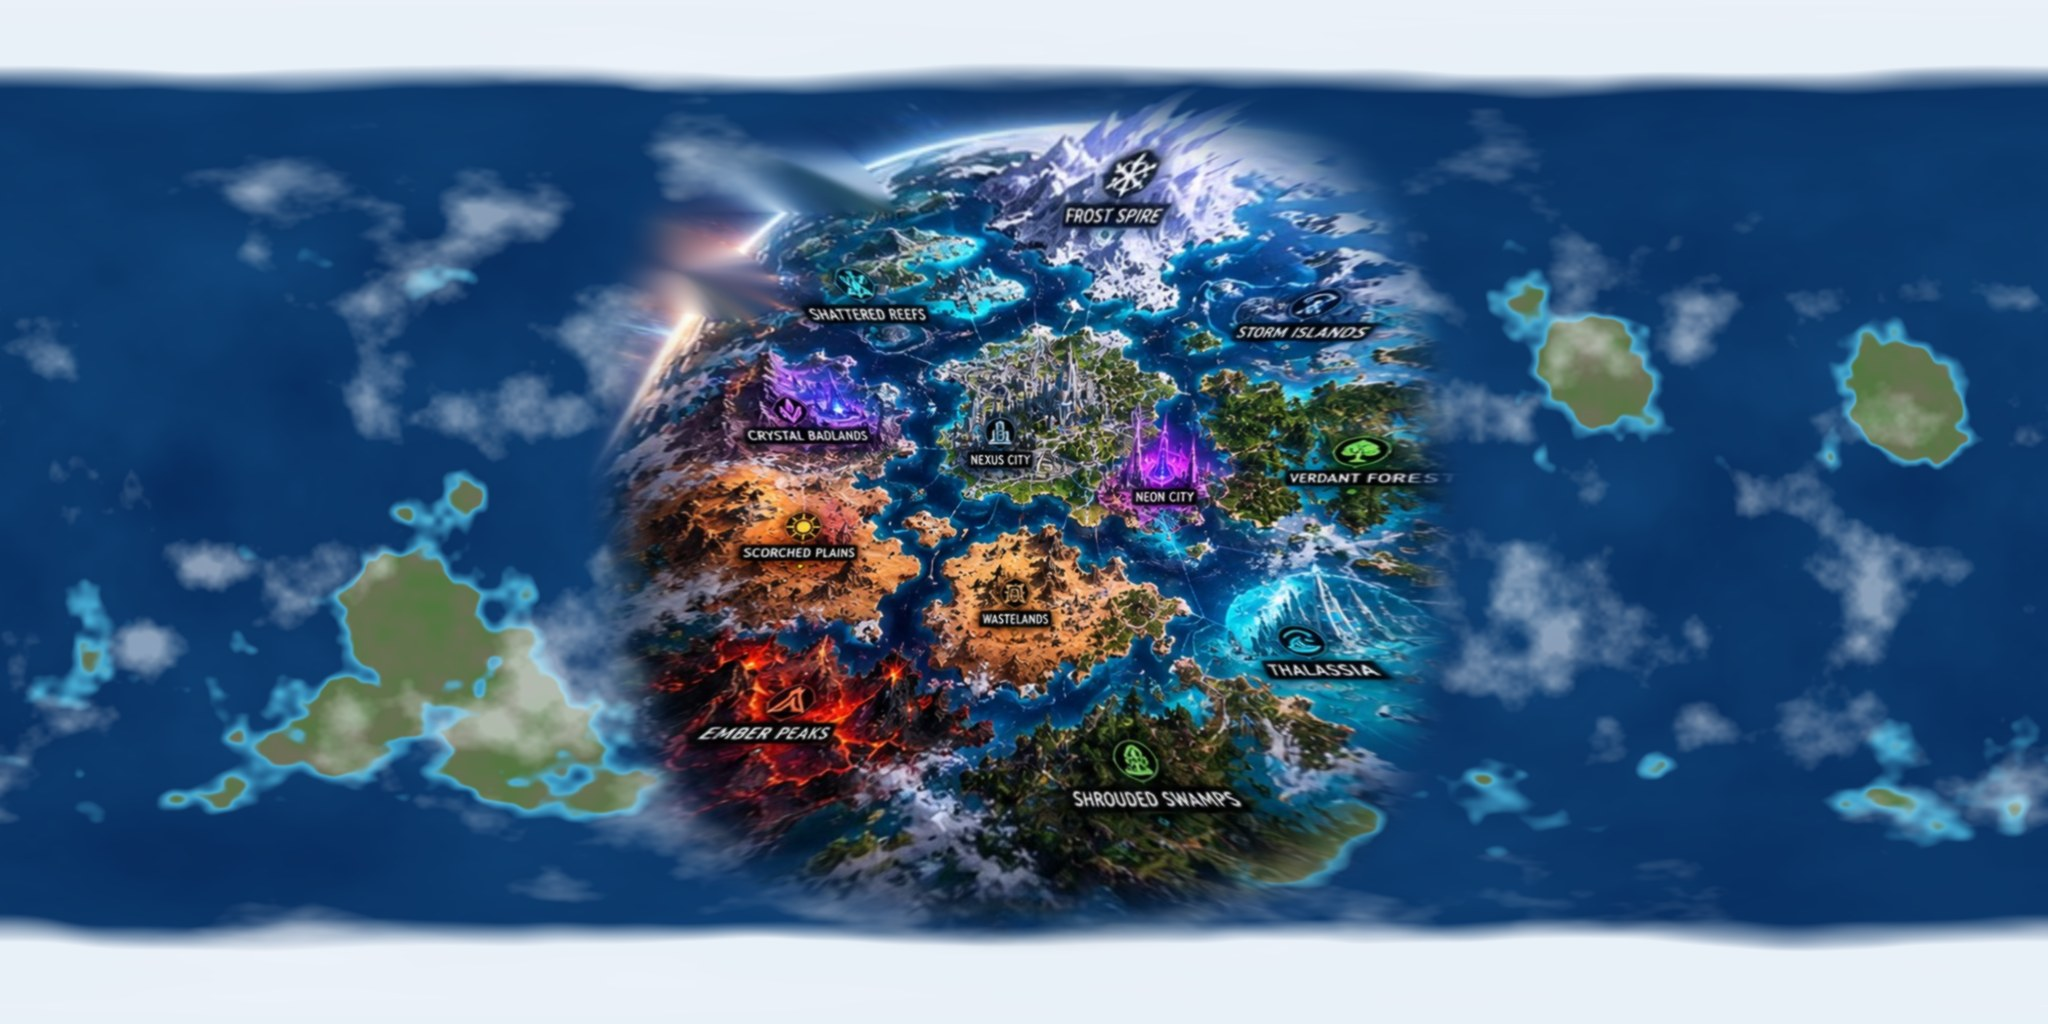
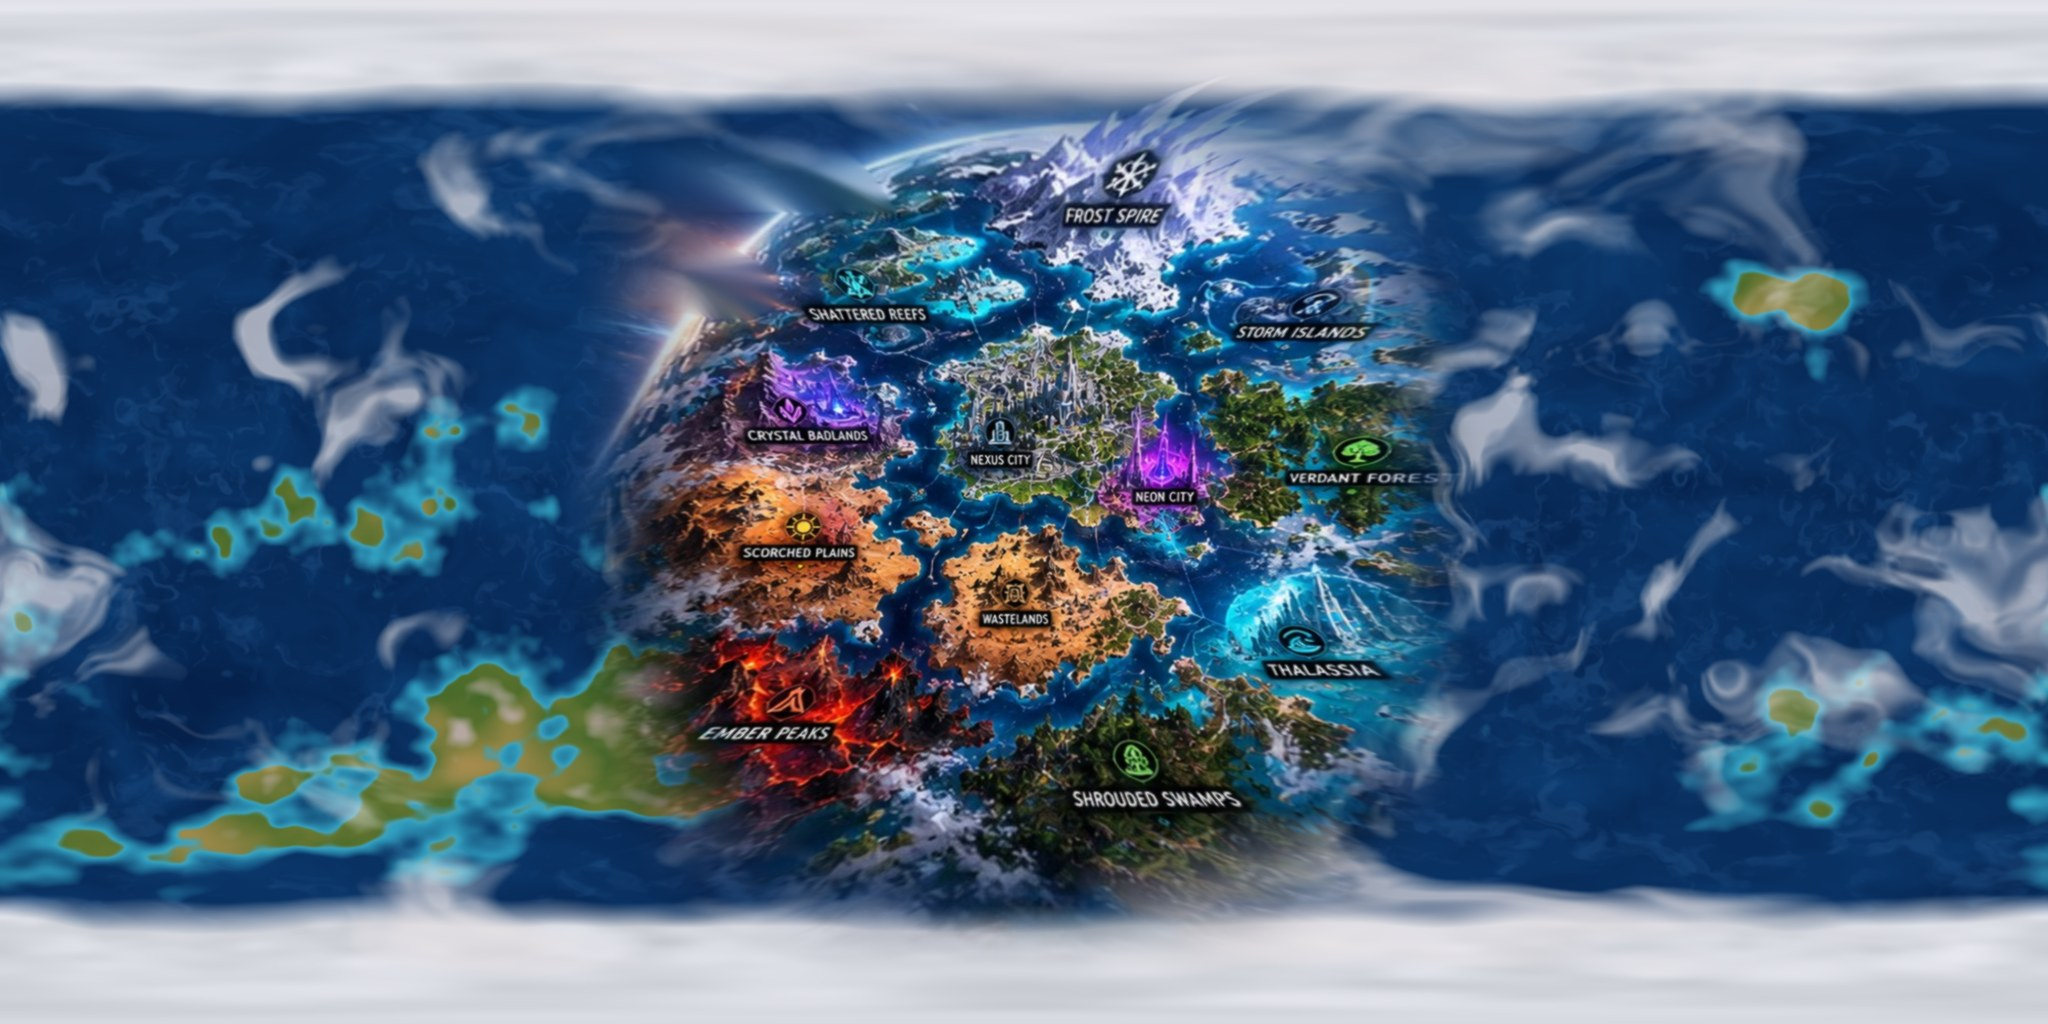
Globe: the far side painted in the board's style (swirling clouds, brushed currents, glowing coasts, small archipelagos, cracked ice caps) and blended wider so the seam is soft
Claude-Session: https://claude.ai/code/session_01DRwQXFU4KnPXccPeWP3S57

diff --git a/scripts/bake-globe.py b/scripts/bake-globe.py
@@ -71,36 +71,60 @@ def fbm(scale, seed, octaves=5):
         t = t + amp * value_noise(scale * 2 ** o, seed + o); tot += amp; amp *= 0.5
     return t / tot
 
-deep = np.array([6, 40, 88], np.float32); mid = np.array([18, 74, 128], np.float32); shallow = np.array([70, 170, 210], np.float32)  # the painting's ocean (10th/50th/90th percentile)
-sand = np.array([196, 178, 128], np.float32); green = np.array([74, 120, 58], np.float32); rock = np.array([118, 108, 96], np.float32)
-ice = np.array([232, 240, 248], np.float32)
+# the painting's palette (sampled from its oceans, coasts, forests, deserts and ice)
+deep = np.array([4, 30, 74], np.float32); mid = np.array([14, 70, 132], np.float32); glow = np.array([60, 196, 232], np.float32)
+sand = np.array([214, 168, 104], np.float32); green = np.array([58, 108, 42], np.float32); olive = np.array([118, 132, 58], np.float32)
+rock = np.array([138, 120, 104], np.float32); snowc = np.array([236, 242, 250], np.float32); ice = np.array([224, 236, 248], np.float32)
 
-relief = fbm(1.6, 11)
-depth = fbm(3.2, 23)
-ocean = deep[None, None] * (1 - depth[..., None]) + mid[None, None] * depth[..., None]
-back = ocean.copy()
-# small reef islands and archipelagos (kept small: the twelve continents are all on the near side)
-isl = relief + 0.18 * fbm(9, 31, 3)
-shelf = np.clip((isl - 0.69) / 0.035, 0, 1)[..., None]
-land = np.clip((isl - 0.725) / 0.015, 0, 1)[..., None]
-back = back * (1 - shelf) + shallow * shelf
-hills = fbm(14, 41, 3)[..., None]
-landcol = green * (1 - hills) + rock * hills
-beach = np.clip((isl - 0.725) / 0.008, 0, 1)[..., None]
+def warp(scale, seed, amt):
+    """domain-warped noise: the swirling, brushed look of the painting's currents and clouds"""
+    wx = fbm(scale * 0.7, seed + 100, 3) - 0.5
+    wy = fbm(scale * 0.7, seed + 200, 3) - 0.5
+    global LON, LAT
+    lon0, lat0 = LON, LAT
+    LON, LAT = lon0 + wx * amt, np.clip(lat0 + wy * amt * 0.5, -math.pi / 2, math.pi / 2)
+    out = fbm(scale, seed, 4)
+    LON, LAT = lon0, lat0
+    return out
+
+relief = fbm(1.4, 11)
+currents = warp(5.0, 23, 0.9)
+back = deep[None, None] * (1 - currents[..., None]) + mid[None, None] * currents[..., None]
+# brushed streaks along the currents (the painting's strokes)
+streak = np.clip((warp(16.0, 29, 0.5) - 0.55) / 0.2, 0, 1)[..., None] * 0.35
+back = back * (1 - streak) + (mid + 30)[None, None] * streak
+# archipelagos with the painting's glowing cyan coasts
+isl = relief + 0.2 * fbm(8, 31, 3)
+halo = np.clip((isl - 0.70) / 0.05, 0, 1)[..., None]
+land = np.clip((isl - 0.75) / 0.012, 0, 1)[..., None]
+back = back * (1 - halo * 0.85) + glow * halo * 0.85
+veg = fbm(12, 41, 3)[..., None]
+high = np.clip((isl - 0.8) / 0.04, 0, 1)[..., None]
+landcol = green * (1 - veg) + olive * veg
+landcol = landcol * (1 - np.clip(fbm(5, 43, 2)[..., None] * 2 - 1.1, 0, 1)) + sand * np.clip(fbm(5, 43, 2)[..., None] * 2 - 1.1, 0, 1)
+landcol = landcol * (1 - high) + (rock * 0.5 + snowc * 0.5) * high
+beach = np.clip((isl - 0.75) / 0.006, 0, 1)[..., None]
 landcol = sand * (1 - beach) + landcol * beach
 back = back * (1 - land) + landcol * land
-# polar ice: ragged caps
-ragged = 0.08 * (fbm(6, 51, 3) - 0.5)
-capN = np.clip((LAT - math.radians(74) + ragged) / math.radians(4), 0, 1)[..., None]
-capS = np.clip((-LAT - math.radians(72) + ragged) / math.radians(4), 0, 1)[..., None]
-back = back * (1 - np.maximum(capN, capS)) + ice * np.maximum(capN, capS)
-# cloud wisps
-cloud = np.clip((fbm(4.5, 61) - 0.56) / 0.2, 0, 1)[..., None] * 0.55
-back = back * (1 - cloud) + np.array([240, 244, 250], np.float32) * cloud
+# polar ice: ragged, cracked caps
+ragged = 0.1 * (fbm(6, 51, 3) - 0.5)
+capN = np.clip((LAT - math.radians(70) + ragged) / math.radians(5), 0, 1)[..., None]
+capS = np.clip((-LAT - math.radians(68) + ragged) / math.radians(5), 0, 1)[..., None]
+cap = np.maximum(capN, capS)
+back = back * (1 - cap) + (ice - (fbm(18, 53, 2)[..., None] - 0.5) * 40) * cap
+# swirling cloud bands
+cl = warp(3.5, 61, 1.4)
+cloud = np.clip((cl - 0.55) / 0.18, 0, 1)[..., None] * 0.7
+back = back * (1 - cloud) + np.array([244, 248, 255], np.float32) * cloud
+# match the painting's overall tone (its far side should read as the same picture)
+fmask = (cosc > 0.5)
+for ch in range(3):
+    fm, bm = front[..., ch][fmask].mean(), back[..., ch][~fmask].mean()
+    back[..., ch] = back[..., ch] * (0.75 + 0.25 * fm / max(1.0, bm))
 
 # ---- blend: the painting where it is seen face-on, the far side beyond the limb ----
 c = np.degrees(np.arccos(np.clip(cosc, -1, 1)))
-t = np.clip((c - 64) / 14, 0, 1)
+t = np.clip((c - 58) / 24, 0, 1)
 t = (t * t * (3 - 2 * t))[..., None]
 # the poles of the near side too: the painting's top and bottom are foreshortened as well
 img = front * (1 - t) + back * t
